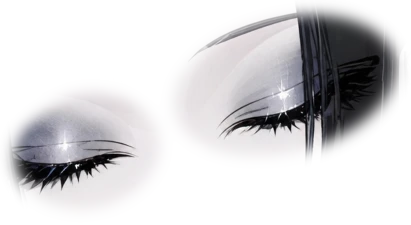
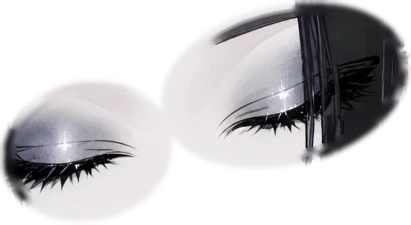
눈 감을 때 잔상 제거
Claude-Session: https://claude.ai/code/session_015z2jERGhkXRnxmKCmzk3Uw

Changed region(s): [[0.4964, 0.0, 1.0, 0.7467], [0.0, 0.3422, 0.3504, 0.9333]]

diff --git a/rig/rig.js b/rig/rig.js
@@ -240,6 +240,7 @@ window.CelesteRig = async function(cv, opt = {}){
       else if(g === 'iris') headRigid(m, S.gaze.x, S.gaze.y);
       else if(g === 'patch'){ headRigid(m); a = name === 'eyes_closed' ? closed : name === 'mouth_smile' ? S.smile : S.frown; if(a <= .001) continue; }
       else headRigid(m);                                                                      // 얼굴·이목구비·귀·머리 조각: 통째로
+      if(g === 'iris' || g === 'eyewhite' || name.startsWith('eyelash')) a *= 1 - closed;   // 감을 땐 뜬 눈(흰자·눈동자·속눈썹)을 지워 잔상이 남지 않게
       gl.uniform1f(U.alpha, a);
       if(g === 'iris'){ const ew = RIG.layers[name.replace('irides', 'eyewhite')];
         gl.uniform1f(U.isIris, 1); gl.activeTexture(gl.TEXTURE2); gl.bindTexture(gl.TEXTURE_2D, T[name.replace('irides', 'eyewhite')]);

diff --git a/sw.js b/sw.js
@@ -1,5 +1,5 @@
 // 오프라인 캐시. 배포할 때마다 버전이 오른다(tools/celeste_deploy.py)
-const CACHE = 'bleu-minuit-v43';
+const CACHE = 'bleu-minuit-v44';
 const FILES = [
  "rig/under.webp",
  "rig/back_hair.webp",
